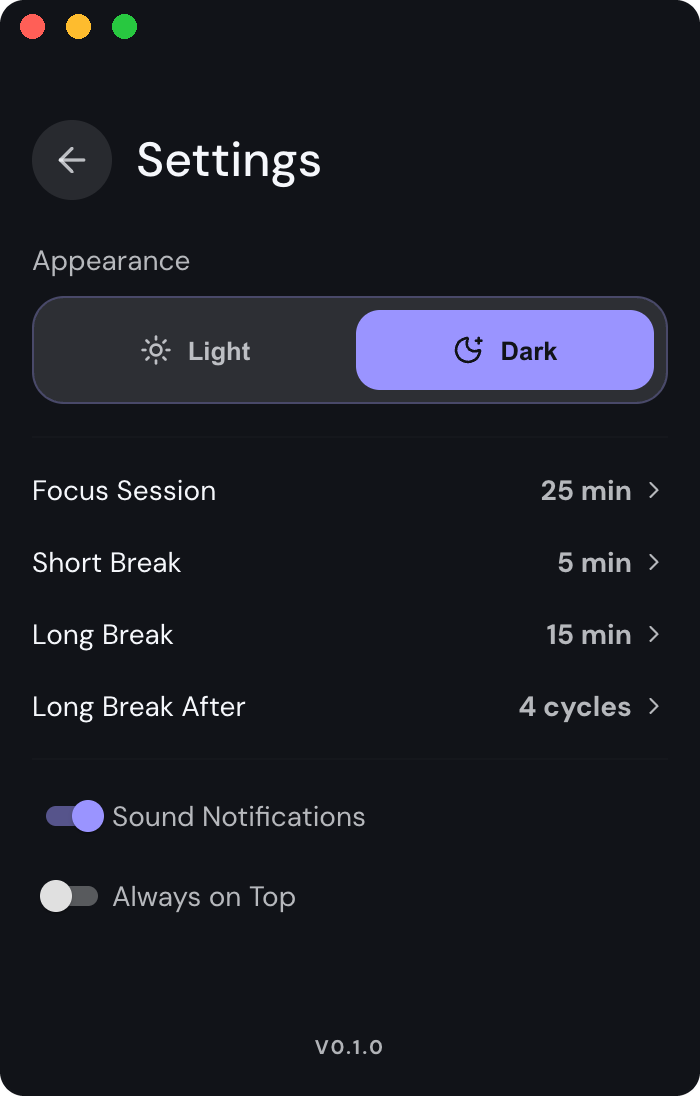
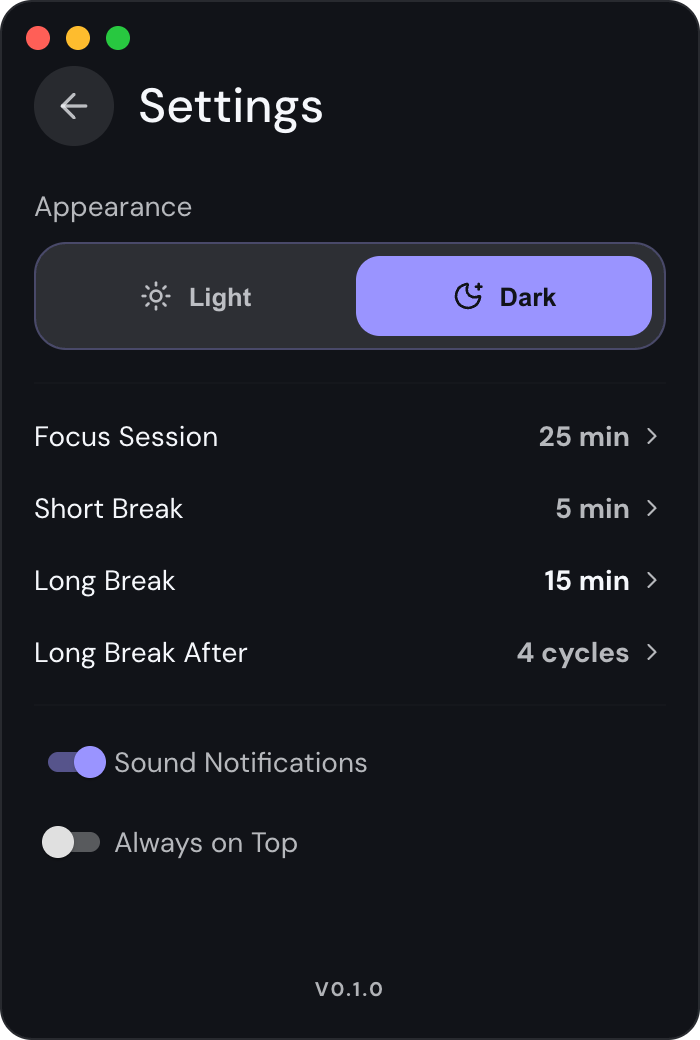
feat(site): show the reduced timer and refresh landing captures
- Recapture the app screens: the timer is the reduced circle (transparent PNG),
  panels keep the full window. The tour follows the window size per view.
- Drop the fake macOS title bar from the captures; the app draws its own
  window controls now.
- Update the compact-flow copy in all six locales: reduced timer, menu bar
  kept on close, Quit.

diff --git a/site/src/data/appScreens.ts b/site/src/data/appScreens.ts
@@ -40,6 +40,8 @@ export const appScreenOrder: AppScreenKey[] = [
 	"settings",
 ];
 
-// Width/height of every capture, so the browser reserves space before load.
+// Width/height of the full-window captures, so the browser reserves space before
+// load. The reduced timer shots (home, running) are narrower; their own PNG size
+// takes over once loaded.
 export const APP_SCREEN_WIDTH = 700;
-export const APP_SCREEN_HEIGHT = 1096;
+export const APP_SCREEN_HEIGHT = 1040;

diff --git a/site/scripts/build-app-media.py b/site/scripts/build-app-media.py
@@ -1,7 +1,9 @@
 """Turns the raw captures from capture-app.mjs into the site's app assets.
 
-Adds the macOS title bar (traffic lights) the Tauri window draws natively,
-rounds the static shots' corners, and encodes the tour as GIF + animated WebP.
+Rounds the corners of the full-window shots (the app draws its own window
+controls now), keeps the reduced timer's shots as transparent PNGs, and encodes
+the tour as GIF + animated WebP. Reduced frames are centred on a full-window
+canvas so the animation keeps one size.
 
 Usage: python3 site/scripts/build-app-media.py [captureDir]   (needs Pillow)
 """
@@ -16,10 +18,10 @@ from PIL import Image, ImageDraw
 CAPTURES = sys.argv[1] if len(sys.argv) > 1 else ".app-captures"
 ASSETS = os.path.join(os.path.dirname(__file__), "..", "src", "assets")
 
-# Measured at 2x from a real macOS window of the app.
-TITLE_BAR = 56
-LIGHTS = ((32, (255, 95, 87)), (78, (254, 188, 46)), (124, (40, 200, 64)))
-LIGHT_Y, LIGHT_R = 26, 12
+# Captures are 2x. The full window is 350x520 and the reduced timer 260x348
+# (see WINDOW and COMPACT in capture-app.mjs).
+WINDOW_SIZE = (700, 1040)
+COMPACT_WIDTH = 520
 CORNER_RADIUS = 24
 
 TOUR_FPS = 15
@@ -28,27 +30,34 @@ GIF_WIDTH = 480
 WEBP_WIDTH = 600
 
 
-def add_window_chrome(image, rounded=True):
-    image = image.convert("RGB")
-    width, height = image.size
-    background = image.getpixel((4, 4))
-    window = Image.new("RGB", (width, height + TITLE_BAR), background)
-    window.paste(image, (0, TITLE_BAR))
-    draw = ImageDraw.Draw(window)
-    for x, color in LIGHTS:
-        draw.ellipse((x - LIGHT_R, LIGHT_Y - LIGHT_R, x + LIGHT_R, LIGHT_Y + LIGHT_R), fill=color)
-    if not rounded:
-        return window
+def is_compact(image):
+    return image.width == COMPACT_WIDTH
 
+
+def fit_to_window(image):
+    """Centres a reduced capture on a full-window canvas, filled with the page colour."""
+    image = image.convert("RGB")
+    if image.size == WINDOW_SIZE:
+        return image
+    canvas = Image.new("RGB", WINDOW_SIZE, image.getpixel((4, 4)))
+    canvas.paste(
+        image,
+        ((WINDOW_SIZE[0] - image.width) // 2, (WINDOW_SIZE[1] - image.height) // 2),
+    )
+    return canvas
+
+
+def round_corners(image):
     # Supersampled mask for smooth corners.
+    image = image.convert("RGB")
     scale = 4
-    mask = Image.new("L", (window.width * scale, window.height * scale), 0)
+    mask = Image.new("L", (image.width * scale, image.height * scale), 0)
     ImageDraw.Draw(mask).rounded_rectangle(
         (0, 0, mask.width - 1, mask.height - 1), radius=CORNER_RADIUS * scale, fill=255
     )
-    window = window.convert("RGBA")
-    window.putalpha(mask.resize(window.size, Image.LANCZOS))
-    return window
+    image = image.convert("RGBA")
+    image.putalpha(mask.resize(image.size, Image.LANCZOS))
+    return image
 
 
 def resize_to_width(image, width):
@@ -57,9 +66,9 @@ def resize_to_width(image, width):
 
 def build_shots():
     for path in sorted(glob.glob(os.path.join(CAPTURES, "shots", "*.png"))):
-        add_window_chrome(Image.open(path)).save(
-            os.path.join(ASSETS, os.path.basename(path)), optimize=True
-        )
+        image = Image.open(path)
+        output = image if is_compact(image) else round_corners(image)
+        output.save(os.path.join(ASSETS, os.path.basename(path)), optimize=True)
 
 
 def build_tour():
@@ -79,7 +88,7 @@ def build_tour():
             durations[-1] += 1000 / TOUR_FPS
             continue
         previous = source
-        frames.append(add_window_chrome(Image.open(files[source]), rounded=False))
+        frames.append(fit_to_window(Image.open(files[source])))
         durations.append(1000 / TOUR_FPS)
     durations[-1] += TOUR_END_HOLD_MS
     durations = [round(d) for d in durations]

diff --git a/site/README.md b/site/README.md
@@ -48,8 +48,10 @@ pnpm site:capture   # captura no Chrome headless e exporta para src/assets/
 
 Requer Google Chrome instalado (ou `CHROME_PATH`) e Python 3 com Pillow.
 O script popula tarefas de exemplo via `localStorage`, captura cada tela em
-2x nos temas claro e escuro e grava o fluxo de navegação do tour. A barra de
-título com os botões do macOS é adicionada em `site/scripts/build-app-media.py`.
+2x nos temas claro e escuro e grava o fluxo de navegação do tour. O timer em
+modo reduzido é capturado como PNG transparente; os botões de janela já são
+desenhados pelo próprio app. `site/scripts/build-app-media.py` só arredonda os
+cantos e centraliza o modo reduzido no GIF/WebP do tour.
 
 ## Publicação
 
